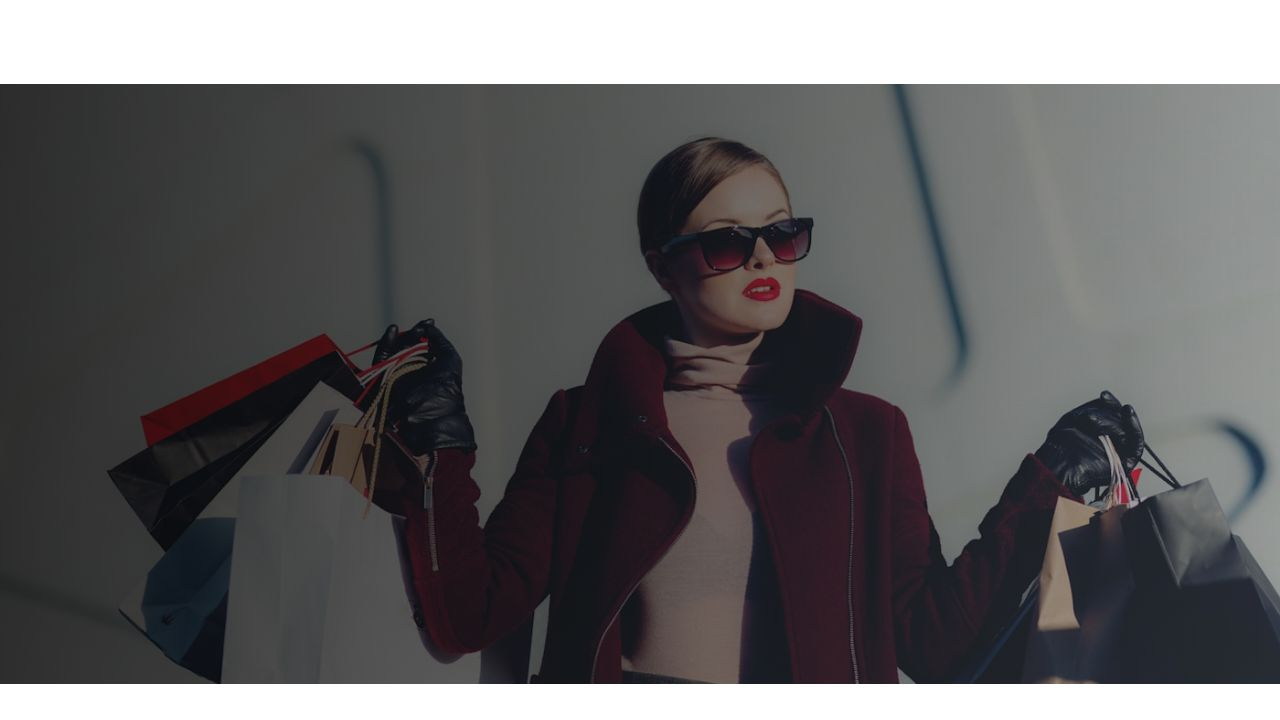
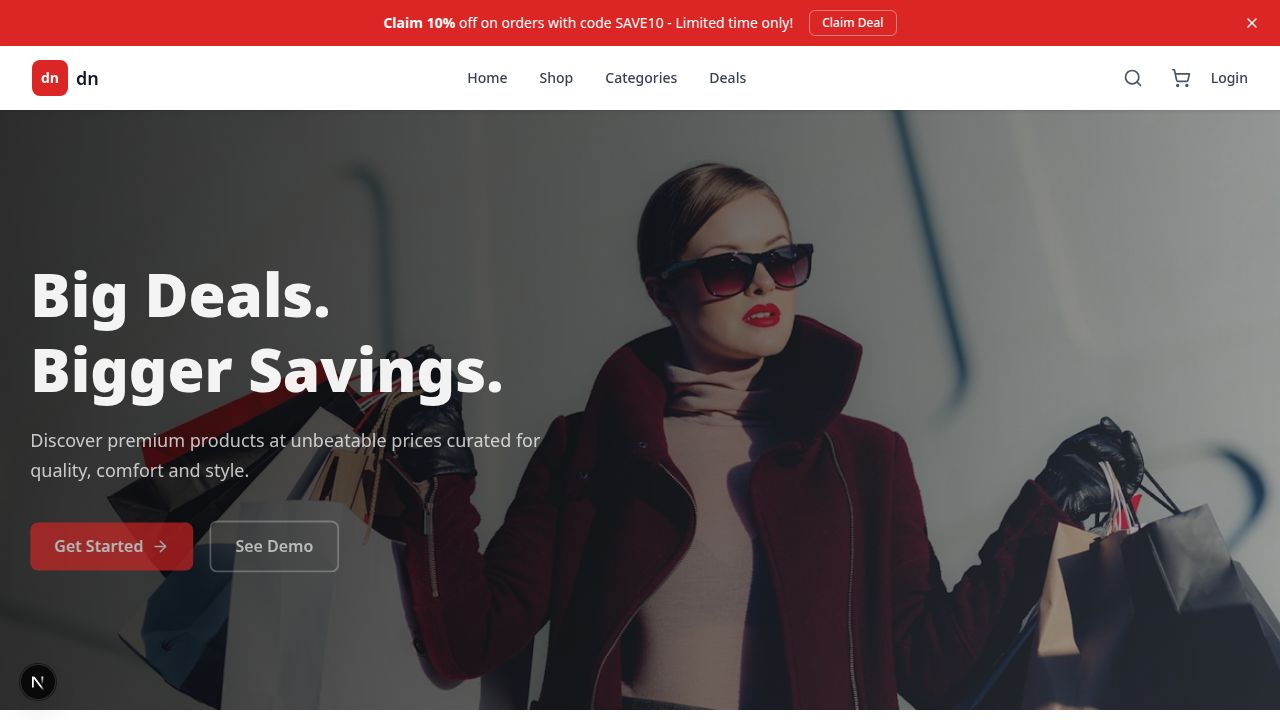
Integrate Gemini for AI-powered product description generation
Update `src/app/api/ai/generate-description/route.ts` to use the Gemini API instead of OpenAI, leveraging the `GEMINI_API_KEY` environment variable. Includes image processing for visual context and fallback mechanisms.

Replit-Commit-Author: Agent
Replit-Commit-Session-Id: 4608c7a9-f564-4b5b-a3fb-8ead5e1e7d4f
Replit-Commit-Checkpoint-Type: full_checkpoint
Replit-Commit-Event-Id: 8cc2b922-8e61-45d1-b8c7-ce789e2fe70c
Replit-Commit-Screenshot-Url: https://storage.googleapis.com/screenshot-production-us-central1/0f049df1-1797-479b-9253-364d949af03c/4608c7a9-f564-4b5b-a3fb-8ead5e1e7d4f/YWQpxAf
Replit-Helium-Checkpoint-Created: true

diff --git a/artifacts/shopstore/src/app/api/ai/generate-description/route.ts b/artifacts/shopstore/src/app/api/ai/generate-description/route.ts
@@ -3,45 +3,69 @@ import { NextRequest, NextResponse } from "next/server";
 export async function POST(req: NextRequest) {
   const { productName, imageUrl } = await req.json();
 
-  const openaiKey = process.env.OPENAI_API_KEY;
+  const geminiKey = process.env.GEMINI_API_KEY;
 
-  if (!openaiKey) {
+  if (!geminiKey) {
     const fallback = `${productName} is a premium quality product designed for those who value both style and functionality. Crafted with attention to detail, it delivers exceptional performance and durability. Whether you're looking for everyday use or a special occasion, this product exceeds expectations with its superior build quality and elegant design. Order now and experience the difference.`;
     return NextResponse.json({ description: fallback });
   }
 
   try {
-    const messages: any[] = [
-      {
-        role: "user",
-        content: imageUrl
-          ? [
-              { type: "text", text: `Write a compelling product description for: "${productName}". Use the image for context. Keep it 2-3 sentences, highlighting key features and benefits. Avoid bullet points.` },
-              { type: "image_url", image_url: { url: imageUrl } },
-            ]
-          : `Write a compelling product description for: "${productName}". Keep it 2-3 sentences, highlighting key features and benefits. Avoid bullet points.`,
-      },
-    ];
+    const prompt = `Write a compelling product description for: "${productName}". Keep it 2-3 sentences, highlighting key features and benefits. Avoid bullet points. Be enthusiastic but concise.`;
 
-    const res = await fetch("https://api.openai.com/v1/chat/completions", {
-      method: "POST",
-      headers: {
-        "Authorization": `Bearer ${openaiKey}`,
-        "Content-Type": "application/json",
-      },
-      body: JSON.stringify({
-        model: imageUrl ? "gpt-4o" : "gpt-4o-mini",
-        messages,
-        max_tokens: 200,
+    const body: any = {
+      contents: [
+        {
+          parts: imageUrl
+            ? [
+                { text: prompt + " Use the provided image for visual context." },
+                { inline_data: { mime_type: "image/jpeg", data: "" } },
+              ]
+            : [{ text: prompt }],
+        },
+      ],
+      generationConfig: {
+        maxOutputTokens: 200,
         temperature: 0.7,
-      }),
-    });
+      },
+    };
 
-    if (!res.ok) throw new Error("OpenAI error");
+    if (imageUrl) {
+      try {
+        const imgRes = await fetch(imageUrl);
+        if (imgRes.ok) {
+          const buffer = await imgRes.arrayBuffer();
+          const base64 = Buffer.from(buffer).toString("base64");
+          const contentType = imgRes.headers.get("content-type") ?? "image/jpeg";
+          body.contents[0].parts[1].inline_data = { mime_type: contentType, data: base64 };
+        } else {
+          body.contents[0].parts = [{ text: prompt }];
+        }
+      } catch {
+        body.contents[0].parts = [{ text: prompt }];
+      }
+    }
+
+    const res = await fetch(
+      `https://generativelanguage.googleapis.com/v1beta/models/gemini-2.0-flash:generateContent?key=${geminiKey}`,
+      {
+        method: "POST",
+        headers: { "Content-Type": "application/json" },
+        body: JSON.stringify(body),
+      }
+    );
+
+    if (!res.ok) {
+      const err = await res.text();
+      console.error("Gemini error:", err);
+      throw new Error("Gemini API error");
+    }
+
     const data = await res.json();
-    const description = data.choices[0]?.message?.content?.trim() ?? "";
+    const description = data.candidates?.[0]?.content?.parts?.[0]?.text?.trim() ?? "";
     return NextResponse.json({ description });
   } catch (error) {
+    console.error("AI description error:", error);
     const fallback = `${productName} is a premium quality product designed for those who value both style and functionality. Crafted with attention to detail, it delivers exceptional performance and durability.`;
     return NextResponse.json({ description: fallback });
   }

diff --git a/artifacts/shopstore/.next/static/webpack/app/layout.79388496e1441966.hot-update.js b/artifacts/shopstore/.next/static/webpack/app/layout.79388496e1441966.hot-update.js
@@ -1,0 +1,22 @@
+"use strict";
+/*
+ * ATTENTION: An "eval-source-map" devtool has been used.
+ * This devtool is neither made for production nor for readable output files.
+ * It uses "eval()" calls to create a separate source file with attached SourceMaps in the browser devtools.
+ * If you are trying to read the output file, select a different devtool (https://webpack.js.org/configuration/devtool/)
+ * or disable the default devtool with "devtool: false".
+ * If you are looking for production-ready output files, see mode: "production" (https://webpack.js.org/configuration/mode/).
+ */
+self["webpackHotUpdate_N_E"]("app/layout",{
+
+/***/ "(app-pages-browser)/./src/app/globals.css":
+/*!*****************************!*\
+  !*** ./src/app/globals.css ***!
+  \*****************************/
+/***/ ((module, __webpack_exports__, __webpack_require__) => {
+
[1 lines of base64/hex data omitted]
+
+/***/ })
+
+});

diff --git a/artifacts/shopstore/.next/static/webpack/webpack.79388496e1441966.hot-update.js b/artifacts/shopstore/.next/static/webpack/webpack.79388496e1441966.hot-update.js
@@ -1,0 +1,12 @@
+"use strict";
+self["webpackHotUpdate_N_E"]("webpack",{},
+/******/ function(__webpack_require__) { // webpackRuntimeModules
+/******/ /* webpack/runtime/getFullHash */
+/******/ (() => {
+/******/ 	__webpack_require__.h = () => ("e7027d49630d4cf2")
+/******/ })();
+/******/ 
+/******/ }
+)
[1 lines of base64/hex data omitted]
+;

diff --git a/artifacts/shopstore/.next/static/css/app/layout.css b/artifacts/shopstore/.next/static/css/app/layout.css
@@ -638,6 +638,9 @@
   .block {
     display: block;
   }
+  .contents {
+    display: contents;
+  }
   .flex {
     display: flex;
   }

diff --git a/artifacts/shopstore/.next/static/chunks/app/layout.js b/artifacts/shopstore/.next/static/chunks/app/layout.js
@@ -111,7 +111,7 @@ eval(__webpack_require__.ts("__webpack_require__.r(__webpack_exports__);\n/* har
 /***/ ((module, __webpack_exports__, __webpack_require__) => {
 
 "use strict";
[2 lines of base64/hex data omitted]
 
 /***/ }),
 